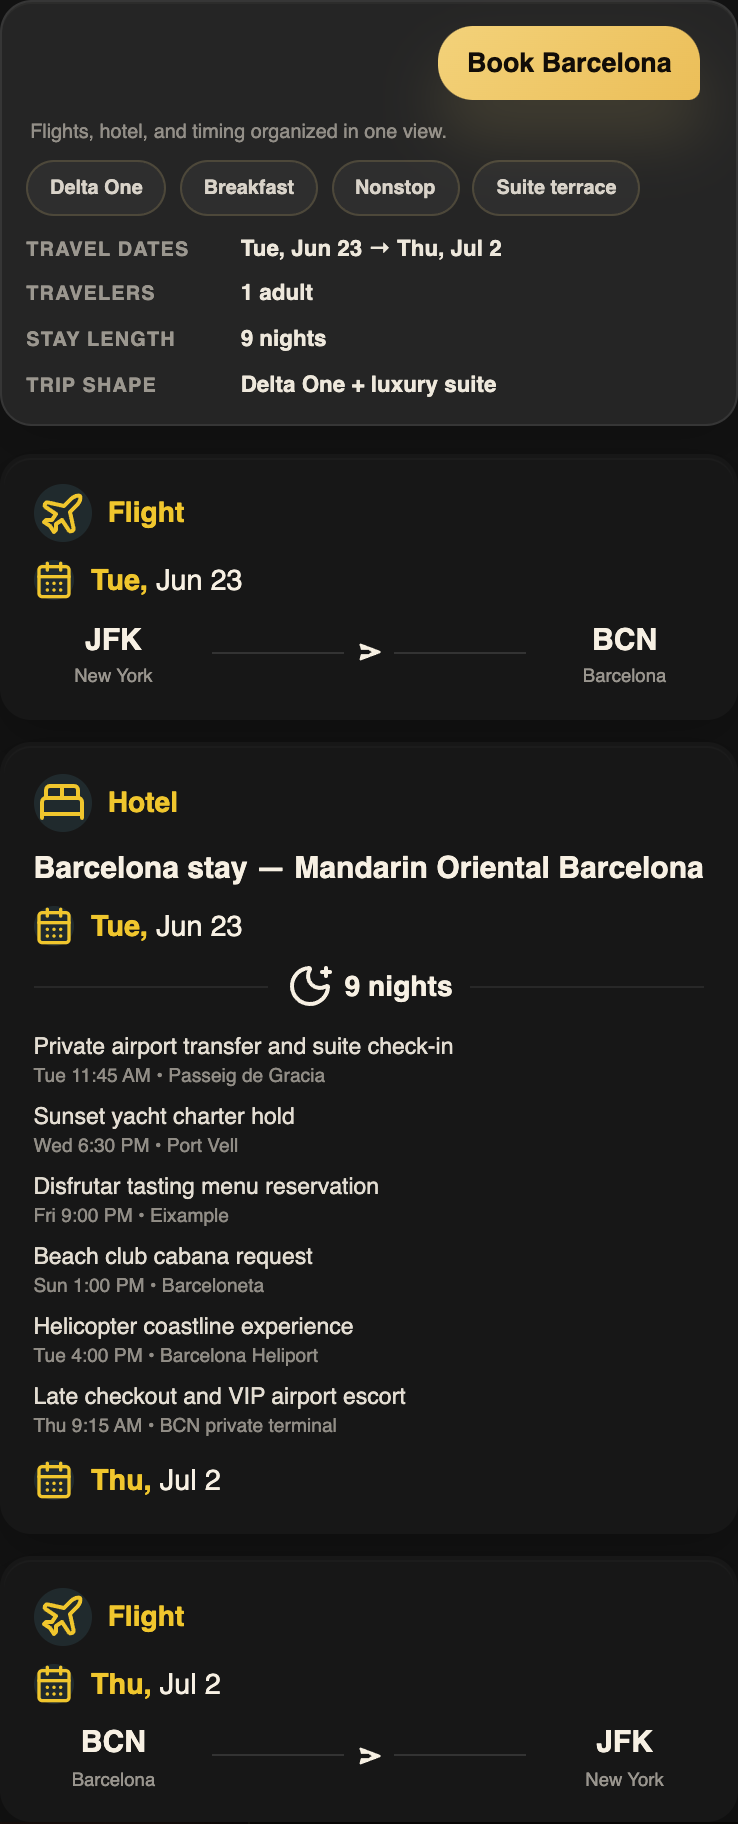
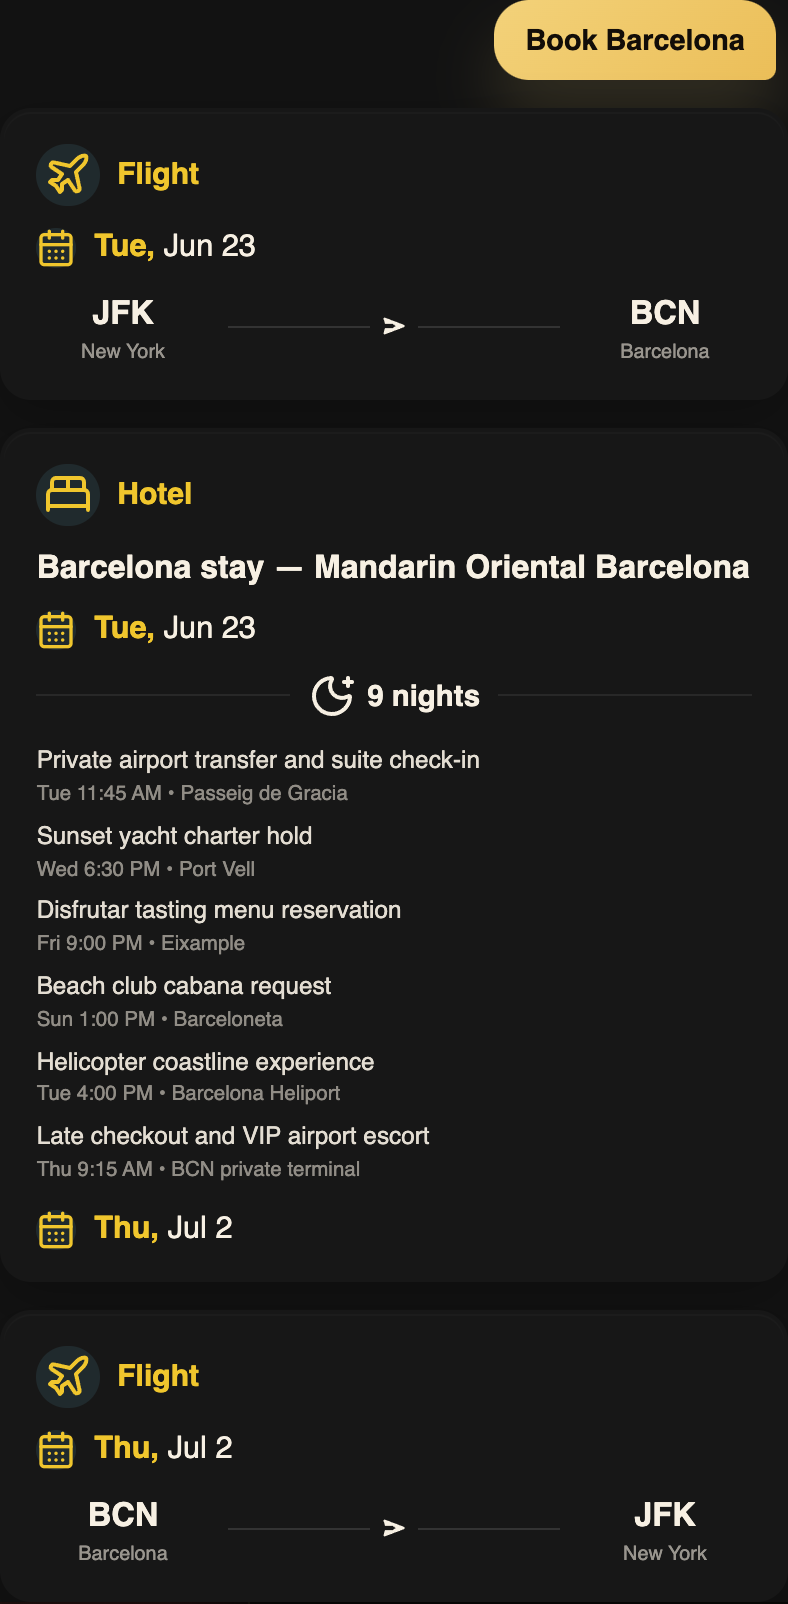
Refresh PackWebsite plan hero presentation

diff --git a/src/components/Hero.tsx b/src/components/Hero.tsx
@@ -62,9 +62,9 @@ import type {
 
 const heroJourneyStillAssets = {
   outline: {
-    src: "/images/hero-captures/plan-still.png?v=2026-04-20-4",
-    width: 738,
-    height: 1824,
+    src: "/images/hero-captures/plan-still.png?v=2026-04-20-5",
+    width: 788,
+    height: 1604,
   },
   search: {
     src: "/images/hero-captures/search-still.png?v=2026-04-14-1",
@@ -85,9 +85,9 @@ const heroJourneyStillAssets = {
 
 const heroJourneyMobileStillAssets = {
   outline: {
-    src: "/images/hero-captures/plan-mobile.png?v=2026-04-20-4",
+    src: "/images/hero-captures/plan-mobile.png?v=2026-04-20-5",
     width: 576,
-    height: 1930,
+    height: 1646,
   },
   search: {
     src: "/images/hero-captures/search-mobile.png?v=2026-04-19-1",
@@ -1714,12 +1714,12 @@ const PromptBubble = styled.div`
   display: inline-flex;
   align-items: center;
   gap: 0.42rem;
-  padding: 0.72rem 0.9rem;
+  padding: 0.8rem 1rem;
   border-radius: 1.1rem 1.1rem 0.36rem 1.1rem;
   background: linear-gradient(135deg, #f3d27a 0%, #ebbe58 100%);
   color: #120d08;
   font-weight: 700;
-  font-size: 0.84rem;
+  font-size: 0.9rem;
   line-height: 1;
   box-shadow: 0 18px 30px rgba(243, 210, 122, 0.14);
 `;
@@ -1743,13 +1743,13 @@ const UserBubbleRow = styled.div`
 
 const TimelineStack = styled.div`
   display: grid;
-  gap: 0.72rem;
+  gap: 0.84rem;
 `;
 
 const OutlineCardShell = styled.div<{ $expanded?: boolean }>`
   display: grid;
-  gap: 0.54rem;
-  padding: 0.84rem 0.92rem;
+  gap: 0.66rem;
+  padding: 1rem 1.02rem;
   border-radius: 0.98rem;
   background: #171717;
   border: 2px solid transparent;
@@ -1768,13 +1768,13 @@ const OutlineCardShell = styled.div<{ $expanded?: boolean }>`
 const CardTopRow = styled.div`
   display: flex;
   align-items: center;
-  gap: 0.5rem;
-  min-height: 1.8rem;
+  gap: 0.56rem;
+  min-height: 1.95rem;
 `;
 
 const CardLabelIcon = styled.div`
-  width: 1.82rem;
-  height: 1.82rem;
+  width: 1.96rem;
+  height: 1.96rem;
   border-radius: 999px;
   background: rgba(99, 184, 205, 0.12);
   display: inline-flex;
@@ -1786,7 +1786,7 @@ const CardLabelIcon = styled.div`
 
 const CardLabel = styled.span`
   color: #f0c62d;
-  font-size: 0.88rem;
+  font-size: 0.94rem;
   font-weight: 700;
 `;
 
@@ -1810,7 +1810,7 @@ const CalendarBadge = styled.div`
 
 const DateText = styled.div`
   color: #f7f0e3;
-  font-size: 0.9rem;
+  font-size: 0.96rem;
   line-height: 1.25;
 `;
 
@@ -1821,8 +1821,8 @@ const DateAccent = styled.span`
 
 const FlightRouteRow = styled.div`
   display: grid;
-  grid-template-columns: 5rem minmax(0, 1fr) 5rem;
-  gap: 0.55rem;
+  grid-template-columns: 5.4rem minmax(0, 1fr) 5.4rem;
+  gap: 0.6rem;
   align-items: center;
 `;
 
@@ -1835,13 +1835,13 @@ const AirportBlock = styled.div`
 
 const AirportCode = styled.span`
   color: #f7f0e3;
-  font-size: 0.94rem;
+  font-size: 1.02rem;
   font-weight: 700;
 `;
 
 const AirportCity = styled.span`
   color: rgba(247, 240, 227, 0.58);
-  font-size: 0.58rem;
+  font-size: 0.62rem;
   font-weight: 500;
   line-height: 1.2;
 `;
@@ -1860,7 +1860,7 @@ const RouteLine = styled.span`
 
 const HotelTitle = styled.div`
   color: #f7f0e3;
-  font-size: 0.94rem;
+  font-size: 1rem;
   font-weight: 700;
   line-height: 1.3;
 `;
@@ -1883,14 +1883,14 @@ const NightsPill = styled.div`
   align-items: center;
   gap: 0.35rem;
   color: #f7f0e3;
-  font-size: 0.88rem;
+  font-size: 0.92rem;
   font-weight: 600;
 `;
 
 const EventList = styled.div`
   display: grid;
-  gap: 0.42rem;
-  padding: 0.15rem 0 0.15rem;
+  gap: 0.48rem;
+  padding: 0.2rem 0 0.2rem;
 `;
 
 const EventItem = styled.div`
@@ -1900,13 +1900,13 @@ const EventItem = styled.div`
 
 const EventTitle = styled.span`
   color: rgba(255, 248, 236, 0.88);
-  font-size: 0.72rem;
+  font-size: 0.76rem;
   line-height: 1.28;
 `;
 
 const EventMeta = styled.span`
   color: rgba(247, 240, 227, 0.54);
-  font-size: 0.6rem;
+  font-size: 0.64rem;
   line-height: 1.28;
 `;
 
@@ -4497,31 +4497,9 @@ const HotelPreviewCard: React.FC<{ item: HotelPreviewItem }> = ({ item }) => (
 
 const PlanOutlineCaptureContent = () => (
   <CaptureOutlineSurface>
-    <PlanSection>
-      <UserBubbleRow>
-        <PromptBubble>Book Barcelona</PromptBubble>
-      </UserBubbleRow>
-      <PlanSectionHeader>
-        <PlanSectionMeta>
-          Flights, hotel, and timing organized in one view.
-        </PlanSectionMeta>
-      </PlanSectionHeader>
-
-      <CaptureChipRow>
-        {planPreferenceChips.map((chip) => (
-          <CaptureChip key={chip}>{chip}</CaptureChip>
-        ))}
-      </CaptureChipRow>
-
-      <CaptureSummaryGrid>
-        {planDetailRows.map((row) => (
-          <CaptureSummaryRow key={row.label}>
-            <CaptureSummaryLabel>{row.label}</CaptureSummaryLabel>
-            <CaptureSummaryValue>{row.value}</CaptureSummaryValue>
-          </CaptureSummaryRow>
-        ))}
-      </CaptureSummaryGrid>
-    </PlanSection>
+    <UserBubbleRow>
+      <PromptBubble>Book Barcelona</PromptBubble>
+    </UserBubbleRow>
 
     <TimelineStack>
       {outlineItems.map((item) =>